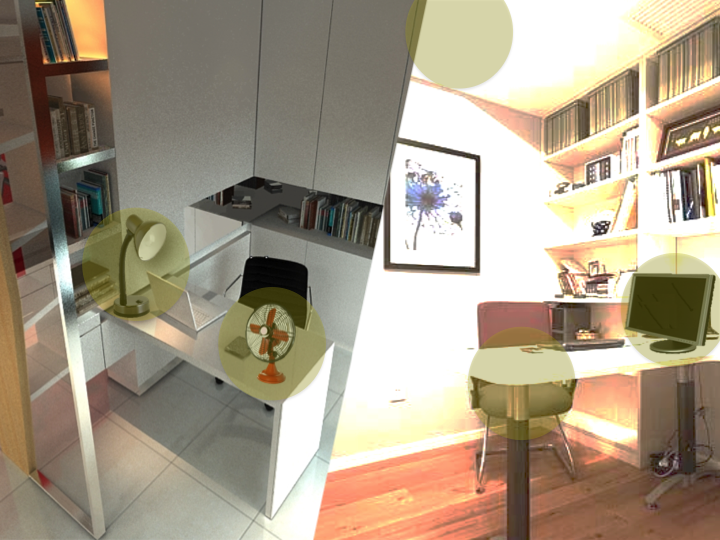
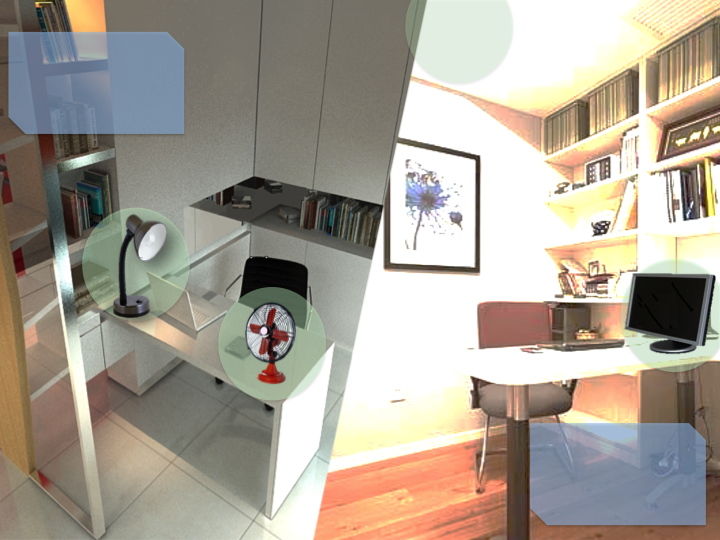
Update background images.

diff --git a/jQuery/osgi.html b/jQuery/osgi.html
@@ -3,18 +3,11 @@
 <title></title>
 <link type="text/css" href="styles/prettyPhoto.css" rel="stylesheet" id="prettyphoto-css" media="all">
 <link type="text/css" href="styles/osgi.style.css" rel="stylesheet">
+<link type="text/css" href="styles/example_ticker.css" rel="stylesheet">
 <style type="text/css">
-#bgsrc
-{
-position:fixed;
-left:0px;
-top:0px;
-z-index:8000
-}
-
 #ticker5
 {
-position:fixed;
+position:absolute;
 left:550px;
 top:350px;
 filter: Alpha(Opacity=10);
@@ -23,7 +16,7 @@ z-index:9000
 
 #ticker4
 {
-position:fixed;
+position:absolute;
 left:560px;
 top:360px;
 z-index:9001
@@ -31,16 +24,16 @@ z-index:9001
 
 #ticker3
 {
-position:fixed;
+position:absolute;
 left:40px;
 top:40px;
 filter: Alpha(Opacity=30);
-z-index:9002
+z-index:9001
 }
 
 #ticker2
 {
-position:fixed;
+position:absolute;
 left:30px;
 top:30px;
 filter: Alpha(Opacity=10);
@@ -475,8 +468,7 @@ z-index:9000
         <label><b>Current:</b> </label><span id="140bDatb"></span><br>
         <label><b>Luminosity:</b> </label><span id="170bData"></span><br>                
     </div>  	 
-	<img id="ticker2" style=" filter:alpha(opacity=50); opacity:.50;" src="images/box.png" height=90 width=150>
-	<img id="ticker5" style=" filter:alpha(opacity=50); opacity:.50;" src="images/box.png" height=90 width=150>	
+
 	<img width="700" height="446" src="images/bg.png" id="bgsrc" alt="House"> 
     <div class="pin pin-down" data-xpos="63" data-ypos="150">
         <label><b>Left Light: </b></label><br>
